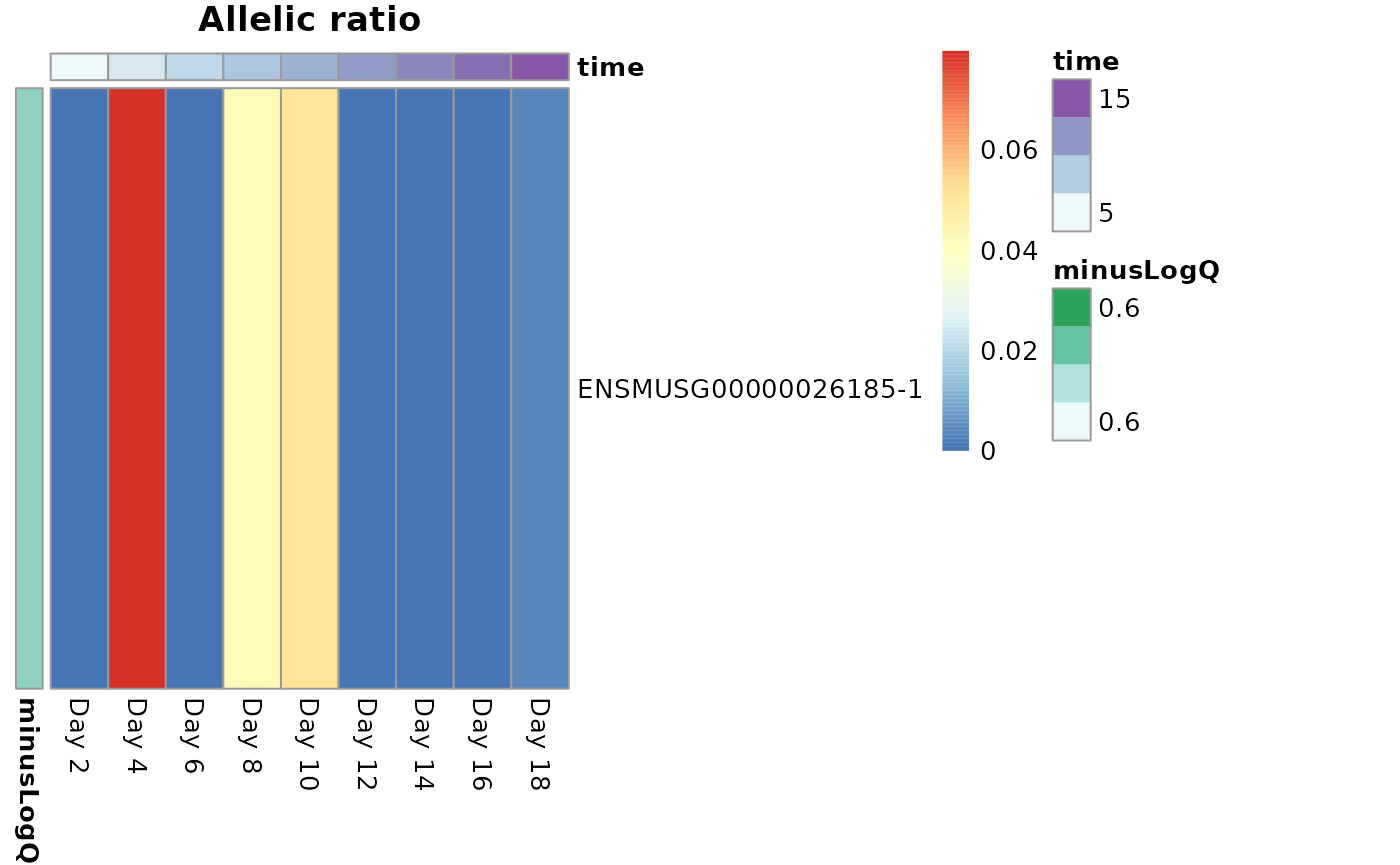
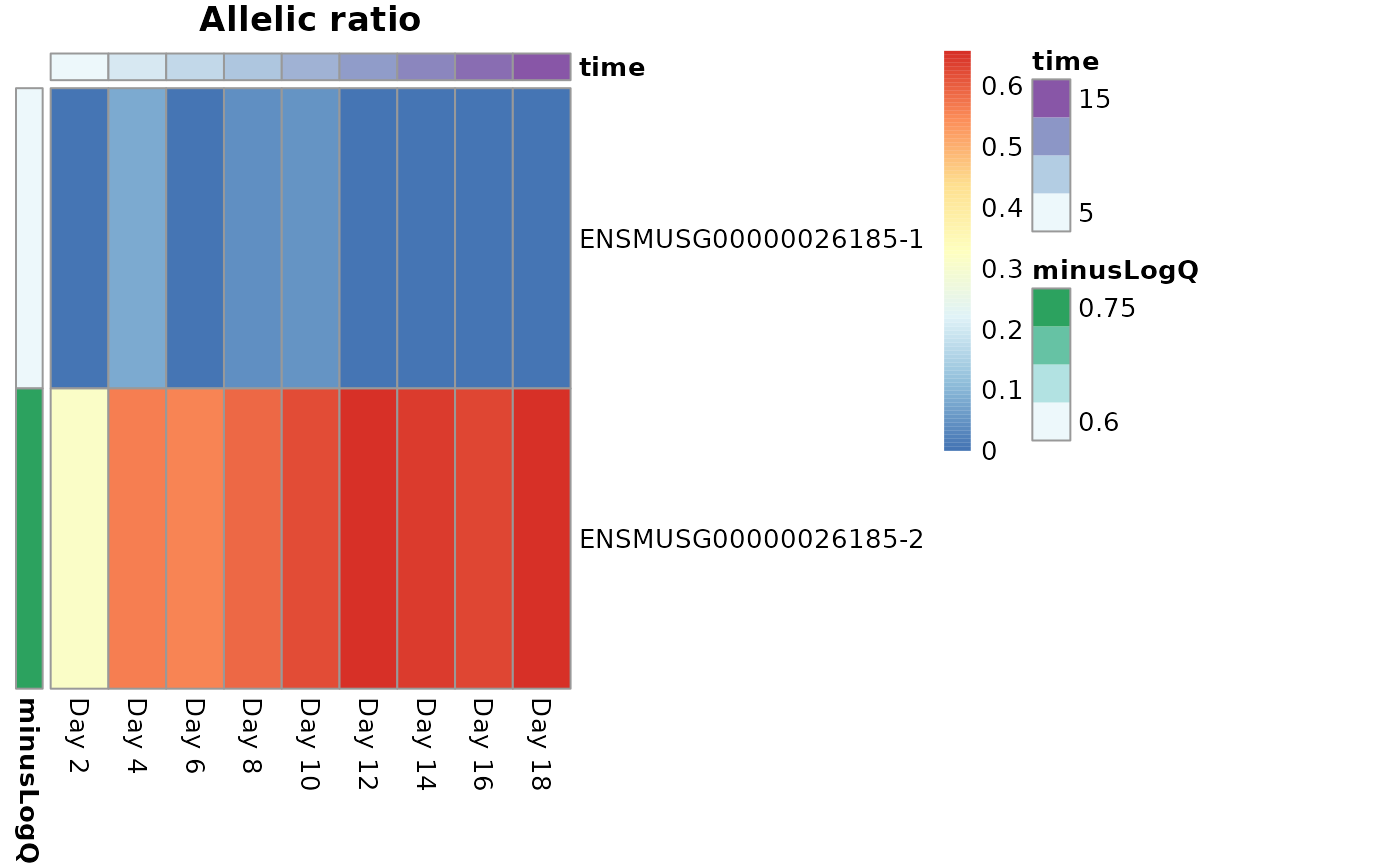
Deploying to gh-pages from @ mikelove/Bioc2022AllelicExpression@a104dd07f5296b4f419c2e4f2dabdc4f16bfcf2c 🚀

diff --git a/articles/Bioc2022AllelicExpression.html b/articles/Bioc2022AllelicExpression.html
@@ -106,7 +106,7 @@ which provides quantification at isoform and allele level; SEESAW also
 use the same upstream pipeline as EMASE for construction of diploid
 reference transcripts.</p>
 <p>Our approach differs from existing methods for detecting allelic
-imbalance in RNA-seq data such as <a href="https://github.com/bmvdgeijn/WASP" class="external-link">WASP</a> or the Bioconductor
+imbalance (AI) in RNA-seq data such as <a href="https://github.com/bmvdgeijn/WASP" class="external-link">WASP</a> or the Bioconductor
 package <a href="https://www.bioconductor.org/packages/AllelicImbalance" class="external-link">AllelicImbalance</a>,
 in that we do not focus on pileup of reads on particular SNPs, but
 instead integrate the isoform- and allele-level information contained in
@@ -120,10 +120,11 @@ Bioconductor package <a href="https://www.bioconductor.org/packages/PAIRADISE" c
 which quantifies reads that contain both allelic and isoform-level
 information: those that contain both a heterozygous SNP and a splice
 juntion. Another relevant recently developed method is <a href="https://github.com/Jiaxin-Fan/ASEP" class="external-link">ASEP</a>, which allows for
-gene-level allelic imbalance detection, accounting for unknown genotype
-of other nearby regulatory variants. PAIRADISE and ASEP are therefore
-applicable across populations of genotypically diverse individuals. We
-link to these publications for background reading below.</p>
+gene-level allelic imbalance (AI) detection, accounting for unknown
+genotype of other nearby regulatory variants. PAIRADISE and ASEP are
+therefore applicable across populations of genotypically diverse
+individuals. We link to these publications for background reading
+below.</p>
 </div>
 <div class="section level3">
 <h3 id="pre-requisites">Pre-requisites<a class="anchor" aria-label="anchor" href="#pre-requisites"></a>
@@ -215,7 +216,7 @@ a population by RNA sequencing</a></li>
 learning about <em>cis</em> genetic regulation</li>
 <li>understand differences between approaches to allelic
 quantification</li>
-<li>understand difference among types of allelic imbalance tests,
+<li>understand difference among types of allelic imbalance (AI) tests,
 e.g. “global”, “differential”, and “dynamic” imbalance</li>
 </ul>
 </div>
@@ -288,7 +289,7 @@ papers.)</p>
 <p>We might expect that these stochastic differences between the two
 alleles would average out if we look at many cells, as in bulk RNA-seq.
 But in some cases, we may see systematic differences between the two
-alleles. Some reasons why:</p>
+alleles, which we call allelic imbalance (AI). Some reasons why:</p>
 <ol style="list-style-type: decimal">
 <li>Interesting biological differences</li>
 <li>Technical artifacts</li>
@@ -622,21 +623,19 @@ non-informative for allelic imbalance analysis.</p>
 <span><span class="va">gcast</span> <span class="op">&lt;-</span> <span class="va">gcast</span><span class="op">[</span> <span class="va">someInfo</span>, <span class="op">]</span></span></code></pre></div>
 </div>
 <div class="section level2">
-<h2 id="allelic-imbalance-by-tss-group">Allelic imbalance by TSS Group<a class="anchor" aria-label="anchor" href="#allelic-imbalance-by-tss-group"></a>
+<h2 id="testing-for-allelic-imbalance">Testing for allelic imbalance<a class="anchor" aria-label="anchor" href="#testing-for-allelic-imbalance"></a>
 </h2>
-<div class="section level3">
-<h3 id="running-swish-at-tss-level">Running Swish at TSS level<a class="anchor" aria-label="anchor" href="#running-swish-at-tss-level"></a>
-</h3>
 <p>Here we switch to using TSS-level data. We have grouped transcripts
 together by TSS using +/- 50bp tolerance (so forming fewer groups by
 allowing +/- 50bp between TSS to join them into a group).</p>
-<p>We first filter out non-informative features as shown in the previous
-step:</p>
 <div class="sourceCode" id="cb15"><pre class="downlit sourceCode r">
 <code class="sourceCode R"><span><span class="fu"><a href="https://rdrr.io/r/utils/data.html" class="external-link">data</a></span><span class="op">(</span><span class="va">osteoblast_tss_chr1</span><span class="op">)</span></span>
 <span><span class="va">tss</span> <span class="op">&lt;-</span> <span class="va">osteoblast_tss_chr1</span></span>
-<span><span class="va">tcast</span> <span class="op">&lt;-</span> <span class="va">tss</span><span class="op">[</span>,<span class="va">tss</span><span class="op">$</span><span class="va">cross</span> <span class="op">==</span> <span class="st">"CASTxB6"</span><span class="op">]</span></span>
-<span><span class="va">n</span> <span class="op">&lt;-</span> <span class="fu"><a href="https://rdrr.io/pkg/BiocGenerics/man/nrow.html" class="external-link">ncol</a></span><span class="op">(</span><span class="va">tcast</span><span class="op">)</span><span class="op">/</span><span class="fl">2</span></span>
+<span><span class="va">tcast</span> <span class="op">&lt;-</span> <span class="va">tss</span><span class="op">[</span>,<span class="va">tss</span><span class="op">$</span><span class="va">cross</span> <span class="op">==</span> <span class="st">"CASTxB6"</span><span class="op">]</span></span></code></pre></div>
+<p>We first filter out non-informative features as shown in the previous
+step:</p>
+<div class="sourceCode" id="cb16"><pre class="downlit sourceCode r">
+<code class="sourceCode R"><span><span class="va">n</span> <span class="op">&lt;-</span> <span class="fu"><a href="https://rdrr.io/pkg/BiocGenerics/man/nrow.html" class="external-link">ncol</a></span><span class="op">(</span><span class="va">tcast</span><span class="op">)</span><span class="op">/</span><span class="fl">2</span></span>
 <span><span class="va">rep1a1</span> <span class="op">&lt;-</span> <span class="fu"><a href="https://rdrr.io/pkg/SummarizedExperiment/man/SummarizedExperiment-class.html" class="external-link">assay</a></span><span class="op">(</span><span class="va">tcast</span>, <span class="st">"infRep1"</span><span class="op">)</span><span class="op">[</span>, <span class="va">tcast</span><span class="op">$</span><span class="va">allele</span> <span class="op">==</span> <span class="st">"a1"</span> <span class="op">]</span></span>
 <span><span class="va">rep1a2</span> <span class="op">&lt;-</span> <span class="fu"><a href="https://rdrr.io/pkg/SummarizedExperiment/man/SummarizedExperiment-class.html" class="external-link">assay</a></span><span class="op">(</span><span class="va">tcast</span>, <span class="st">"infRep1"</span><span class="op">)</span><span class="op">[</span>, <span class="va">tcast</span><span class="op">$</span><span class="va">allele</span> <span class="op">==</span> <span class="st">"a2"</span> <span class="op">]</span></span>
 <span><span class="va">someInfo</span> <span class="op">&lt;-</span> <span class="fu"><a href="https://rdrr.io/pkg/BiocGenerics/man/colSums.html" class="external-link">rowSums</a></span><span class="op">(</span><span class="fu"><a href="https://rdrr.io/r/base/MathFun.html" class="external-link">abs</a></span><span class="op">(</span><span class="va">rep1a1</span> <span class="op">-</span> <span class="va">rep1a2</span><span class="op">)</span> <span class="op">&lt;</span> <span class="fl">1</span><span class="op">)</span> <span class="op">&lt;</span> <span class="va">n</span></span>
@@ -657,18 +656,18 @@ minimal count of 10 in at least 3 samples.</p>
 samples. <em>Dynamic AI</em> tests for non-zero correlation between the
 log allelic fold change and a continuous variable (in this case, the
 <code>day</code>).</p>
-<div class="sourceCode" id="cb16"><pre class="downlit sourceCode r">
+<div class="sourceCode" id="cb17"><pre class="downlit sourceCode r">
 <code class="sourceCode R"><span><span class="va">tcast</span> <span class="op">&lt;-</span> <span class="fu"><a href="https://rdrr.io/pkg/fishpond/man/labelKeep.html" class="external-link">labelKeep</a></span><span class="op">(</span><span class="va">tcast</span><span class="op">)</span></span>
 <span><span class="va">tcast</span> <span class="op">&lt;-</span> <span class="va">tcast</span><span class="op">[</span><span class="fu">mcols</span><span class="op">(</span><span class="va">tcast</span><span class="op">)</span><span class="op">$</span><span class="va">keep</span>,<span class="op">]</span></span>
 <span><span class="co"># for plots later</span></span>
 <span><span class="va">tcast</span> <span class="op">&lt;-</span> <span class="fu"><a href="https://rdrr.io/pkg/fishpond/man/computeInfRV.html" class="external-link">computeInfRV</a></span><span class="op">(</span><span class="va">tcast</span><span class="op">)</span></span></code></pre></div>
 <p>The tests involve permutation, and so it takes about 20 seconds in
 this case.</p>
-<div class="sourceCode" id="cb17"><pre class="downlit sourceCode r">
+<div class="sourceCode" id="cb18"><pre class="downlit sourceCode r">
 <code class="sourceCode R"><span><span class="fu"><a href="https://rdrr.io/r/base/Random.html" class="external-link">set.seed</a></span><span class="op">(</span><span class="fl">1</span><span class="op">)</span></span>
 <span><span class="va">global</span> <span class="op">&lt;-</span> <span class="fu"><a href="https://rdrr.io/pkg/fishpond/man/swish.html" class="external-link">swish</a></span><span class="op">(</span><span class="va">tcast</span>, x<span class="op">=</span><span class="st">"allele"</span>, pair<span class="op">=</span><span class="st">"day"</span><span class="op">)</span></span></code></pre></div>
 <p>The dynamic test here takes about 40 seconds.</p>
-<div class="sourceCode" id="cb18"><pre class="downlit sourceCode r">
+<div class="sourceCode" id="cb19"><pre class="downlit sourceCode r">
 <code class="sourceCode R"><span><span class="fu"><a href="https://rdrr.io/r/base/Random.html" class="external-link">set.seed</a></span><span class="op">(</span><span class="fl">1</span><span class="op">)</span></span>
 <span><span class="va">dy</span> <span class="op">&lt;-</span> <span class="fu"><a href="https://rdrr.io/pkg/fishpond/man/swish.html" class="external-link">swish</a></span><span class="op">(</span><span class="va">tcast</span>, x<span class="op">=</span><span class="st">"allele"</span>, pair<span class="op">=</span><span class="st">"day"</span>,</span>
 <span>            cov<span class="op">=</span><span class="st">"day"</span>, cor<span class="op">=</span><span class="st">"pearson"</span><span class="op">)</span></span></code></pre></div>
@@ -677,7 +676,7 @@ analysis?</strong></p>
 <p>The results are stored in <code>mcols()</code> in each case. We can
 examine how many TSS groups are detected as having global or dynamic AI
 in a 5% FDR set:</p>
-<div class="sourceCode" id="cb19"><pre class="downlit sourceCode r">
+<div class="sourceCode" id="cb20"><pre class="downlit sourceCode r">
 <code class="sourceCode R"><span><span class="fu"><a href="https://rdrr.io/pkg/BiocGenerics/man/table.html" class="external-link">table</a></span><span class="op">(</span><span class="fu">mcols</span><span class="op">(</span><span class="va">global</span><span class="op">)</span><span class="op">$</span><span class="va">qvalue</span> <span class="op">&lt;</span> <span class="fl">0.05</span><span class="op">)</span></span>
 <span><span class="co">#&gt; </span></span>
 <span><span class="co">#&gt; FALSE  TRUE </span></span>
@@ -688,33 +687,34 @@ in a 5% FDR set:</p>
 <span><span class="co">#&gt;  2016    17</span></span></code></pre></div>
 <p><strong>Q: why are there fewer dynamic positive results?</strong></p>
 </div>
-<div class="section level3">
-<h3 id="plotting-results">Plotting Results<a class="anchor" aria-label="anchor" href="#plotting-results"></a>
-</h3>
+<div class="section level2">
+<h2 id="plotting-test-results">Plotting test results<a class="anchor" aria-label="anchor" href="#plotting-test-results"></a>
+</h2>
 <p>We can visualize the relationship between allelic log fold change
 versus mean expression through MA plots. Blue points are TSS groups in
 the 5% FDR set. One can specify the threshold by using
 <code>alpha = ...</code> option.</p>
-<div class="sourceCode" id="cb20"><pre class="downlit sourceCode r">
+<div class="sourceCode" id="cb21"><pre class="downlit sourceCode r">
 <code class="sourceCode R"><span><span class="fu"><a href="https://rdrr.io/pkg/fishpond/man/plotMASwish.html" class="external-link">plotMASwish</a></span><span class="op">(</span><span class="va">global</span>, alpha<span class="op">=</span><span class="fl">.05</span>, main<span class="op">=</span><span class="st">"Global MA Plot"</span><span class="op">)</span></span></code></pre></div>
 <p><img src="Bioc2022AllelicExpression_files/figure-html/maGlobal-1.png" width="700"></p>
 <p>The average LFC over all samples is plotted also for the dynamic
 test, although the correlation is the test statistic used for computing
 p-values and q-values. Hence the most extreme LFC are not in the 5% FDR
 set.</p>
-<div class="sourceCode" id="cb21"><pre class="downlit sourceCode r">
+<div class="sourceCode" id="cb22"><pre class="downlit sourceCode r">
 <code class="sourceCode R"><span><span class="fu"><a href="https://rdrr.io/pkg/fishpond/man/plotMASwish.html" class="external-link">plotMASwish</a></span><span class="op">(</span><span class="va">dy</span>, alpha<span class="op">=</span><span class="fl">.05</span>, main<span class="op">=</span><span class="st">"Dynamic MA Plot"</span><span class="op">)</span></span></code></pre></div>
 <p><img src="Bioc2022AllelicExpression_files/figure-html/maDynamic-1.png" width="700"></p>
-<div class="section level4">
-<h4 id="global-ai-visualization">Global AI visualization<a class="anchor" aria-label="anchor" href="#global-ai-visualization"></a>
-</h4>
+</div>
+<div class="section level2">
+<h2 id="global-ai-visualization">Global AI visualization<a class="anchor" aria-label="anchor" href="#global-ai-visualization"></a>
+</h2>
 <p>We now want to visualize the TSS group analysis in a genomic context.
 To do so, first we must download the mouse Ensembl annotations. We do so
 using <em>AnnotationHub</em>:</p>
-<div class="sourceCode" id="cb22"><pre class="downlit sourceCode r">
+<div class="sourceCode" id="cb23"><pre class="downlit sourceCode r">
 <code class="sourceCode R"><span><span class="kw"><a href="https://rdrr.io/r/base/library.html" class="external-link">library</a></span><span class="op">(</span><span class="va">AnnotationHub</span><span class="op">)</span></span>
 <span><span class="kw"><a href="https://rdrr.io/r/base/library.html" class="external-link">library</a></span><span class="op">(</span><span class="va"><a href="https://github.com/jorainer/ensembldb" class="external-link">ensembldb</a></span><span class="op">)</span></span></code></pre></div>
-<div class="sourceCode" id="cb23"><pre class="downlit sourceCode r">
+<div class="sourceCode" id="cb24"><pre class="downlit sourceCode r">
 <code class="sourceCode R"><span><span class="va">ah</span> <span class="op">&lt;-</span> <span class="fu"><a href="https://rdrr.io/pkg/AnnotationHub/man/AnnotationHub-class.html" class="external-link">AnnotationHub</a></span><span class="op">(</span><span class="op">)</span></span>
 <span><span class="co">#&gt; snapshotDate(): 2022-07-11</span></span>
 <span><span class="va">edb</span> <span class="op">&lt;-</span> <span class="va">ah</span><span class="op">[[</span><span class="st">"AH89211"</span><span class="op">]</span><span class="op">]</span></span>
@@ -726,7 +726,7 @@ context of the gene model. One can also indicate which gene to plot
 using gene symbol, e.g. <code>symbol="Soat1"</code>. Either
 <em>TxDb</em> or <em>EnsDb</em> can be use to include the gene model at
 the top of the plot.</p>
-<div class="sourceCode" id="cb24"><pre class="downlit sourceCode r">
+<div class="sourceCode" id="cb25"><pre class="downlit sourceCode r">
 <code class="sourceCode R"><span><span class="fu"><a href="https://rdrr.io/pkg/fishpond/man/plotAllelicGene.html" class="external-link">plotAllelicGene</a></span><span class="op">(</span><span class="va">global</span>, gene<span class="op">=</span><span class="st">"ENSMUSG00000026600"</span>,</span>
 <span>                db<span class="op">=</span><span class="va">edb</span>, labels<span class="op">=</span><span class="fu"><a href="https://rdrr.io/r/base/list.html" class="external-link">list</a></span><span class="op">(</span>a2<span class="op">=</span><span class="st">"B6"</span>,a1<span class="op">=</span><span class="st">"CAST"</span><span class="op">)</span><span class="op">)</span></span></code></pre></div>
 <p><img src="Bioc2022AllelicExpression_files/figure-html/globalGene-1.png" width="700"></p>
@@ -736,7 +736,7 @@ the top of the plot.</p>
 in majority of the samples. One can customize the label of alleles in
 the function with the following code, switching from <code>a2, a1</code>
 to <code>B6, CAST</code>.</p>
-<div class="sourceCode" id="cb25"><pre class="downlit sourceCode r">
+<div class="sourceCode" id="cb26"><pre class="downlit sourceCode r">
 <code class="sourceCode R"><span><span class="va">tcast</span><span class="op">$</span><span class="va">allele_new</span> <span class="op">&lt;-</span> <span class="va">tcast</span><span class="op">$</span><span class="va">allele</span></span>
 <span><span class="fu"><a href="https://rdrr.io/r/base/levels.html" class="external-link">levels</a></span><span class="op">(</span><span class="va">tcast</span><span class="op">$</span><span class="va">allele_new</span><span class="op">)</span> <span class="op">&lt;-</span> <span class="fu"><a href="https://rdrr.io/r/base/c.html" class="external-link">c</a></span><span class="op">(</span><span class="st">"B6"</span>, <span class="st">"CAST"</span><span class="op">)</span></span>
 <span><span class="va">idx</span> <span class="op">&lt;-</span> <span class="fu"><a href="https://rdrr.io/pkg/BiocGenerics/man/match.html" class="external-link">match</a></span><span class="op">(</span><span class="st">"ENSMUSG00000026600"</span>, <span class="fu">mcols</span><span class="op">(</span><span class="va">tcast</span><span class="op">)</span><span class="op">$</span><span class="va">gene_id</span><span class="op">)</span></span>
@@ -751,7 +751,7 @@ more significant <em>qvalue</em> in differential testing (for allelic
 imbalance). A color toward red indicates more of the <code>a1</code>
 allele (CAST) while a color toward blue indicates more of
 <code>a2</code> (B6).</p>
-<div class="sourceCode" id="cb26"><pre class="downlit sourceCode r">
+<div class="sourceCode" id="cb27"><pre class="downlit sourceCode r">
 <code class="sourceCode R"><span><span class="va">idx</span> <span class="op">&lt;-</span> <span class="fu">mcols</span><span class="op">(</span><span class="va">global</span><span class="op">)</span><span class="op">$</span><span class="va">gene_id</span> <span class="op">==</span> <span class="st">"ENSMUSG00000026600"</span></span>
 <span><span class="va">dat</span> <span class="op">&lt;-</span> <span class="fu"><a href="https://rdrr.io/r/base/data.frame.html" class="external-link">data.frame</a></span><span class="op">(</span>minusLogQ<span class="op">=</span><span class="op">-</span><span class="fu"><a href="https://rdrr.io/r/base/Log.html" class="external-link">log10</a></span><span class="op">(</span><span class="fu">mcols</span><span class="op">(</span><span class="va">global</span><span class="op">)</span><span class="op">$</span><span class="va">qvalue</span><span class="op">[</span><span class="va">idx</span><span class="op">]</span><span class="op">)</span>,</span>
 <span>                  row.names<span class="op">=</span><span class="fu"><a href="https://rdrr.io/pkg/BiocGenerics/man/row_colnames.html" class="external-link">rownames</a></span><span class="op">(</span><span class="va">global</span><span class="op">)</span><span class="op">[</span><span class="va">idx</span><span class="op">]</span><span class="op">)</span></span>
@@ -761,14 +761,14 @@ allele (CAST) while a color toward blue indicates more of
 <span><span class="co">#&gt; using posterior mean for calculating ratio</span></span></code></pre></div>
 <p><img src="Bioc2022AllelicExpression_files/figure-html/globalHeatmap-1.png" width="700"></p>
 </div>
-<div class="section level4">
-<h4 id="dynamic-ai-visualization">Dynamic AI visualization<a class="anchor" aria-label="anchor" href="#dynamic-ai-visualization"></a>
-</h4>
+<div class="section level2">
+<h2 id="dynamic-ai-visualization">Dynamic AI visualization<a class="anchor" aria-label="anchor" href="#dynamic-ai-visualization"></a>
+</h2>
 <p><code><a href="https://rdrr.io/pkg/fishpond/man/plotInfReps.html" class="external-link">plotInfReps()</a></code> is a useful function for visualizing how
 allelic counts changes over a continuous covariate, such as
 <code>day</code>. Using <code>lines</code> can help us better visualize
 the trend.</p>
-<div class="sourceCode" id="cb27"><pre class="downlit sourceCode r">
+<div class="sourceCode" id="cb28"><pre class="downlit sourceCode r">
 <code class="sourceCode R"><span><span class="va">plotCurves</span> <span class="op">&lt;-</span> <span class="kw">function</span><span class="op">(</span><span class="va">dy</span>, <span class="va">idx</span><span class="op">)</span> <span class="op">{</span></span>
 <span>  <span class="va">cols</span> <span class="op">&lt;-</span> <span class="fu"><a href="https://rdrr.io/r/base/c.html" class="external-link">c</a></span><span class="op">(</span><span class="st">"dodgerblue"</span>,<span class="st">"goldenrod4"</span><span class="op">)</span></span>
 <span>  <span class="fu"><a href="https://rdrr.io/pkg/fishpond/man/plotInfReps.html" class="external-link">plotInfReps</a></span><span class="op">(</span><span class="va">dy</span>, idx<span class="op">=</span><span class="va">idx</span>, x<span class="op">=</span><span class="st">"day"</span>, cov<span class="op">=</span><span class="st">"allele"</span>, shiftX<span class="op">=</span><span class="fl">0.01</span><span class="op">)</span></span>
@@ -779,7 +779,7 @@ the trend.</p>
 <span><span class="va">idx</span> <span class="op">&lt;-</span> <span class="st">"ENSMUSG00000026185-1"</span></span>
 <span><span class="fu">plotCurves</span><span class="op">(</span><span class="va">dy</span>, <span class="va">idx</span><span class="op">)</span></span></code></pre></div>
 <p><img src="Bioc2022AllelicExpression_files/figure-html/dynamicInfReps1-1.png" width="700"></p>
-<div class="sourceCode" id="cb28"><pre class="downlit sourceCode r">
+<div class="sourceCode" id="cb29"><pre class="downlit sourceCode r">
 <code class="sourceCode R"><span><span class="va">idx</span> <span class="op">&lt;-</span> <span class="st">"ENSMUSG00000026185-2"</span></span>
 <span><span class="fu">plotCurves</span><span class="op">(</span><span class="va">dy</span>, <span class="va">idx</span><span class="op">)</span></span></code></pre></div>
 <p><img src="Bioc2022AllelicExpression_files/figure-html/dynamicInfReps2-1.png" width="700"></p>
@@ -797,7 +797,7 @@ plot).</p>
 as isoform proportion. We can see an increasing in B6 expression over
 time for the first transcript group and an increasing in CAST expression
 with time for the second transcript group.</p>
-<div class="sourceCode" id="cb29"><pre class="downlit sourceCode r">
+<div class="sourceCode" id="cb30"><pre class="downlit sourceCode r">
 <code class="sourceCode R"><span><span class="co"># this makes integer bins</span></span>
 <span><span class="va">dy</span><span class="op">$</span><span class="va">time_bins</span> <span class="op">&lt;-</span> <span class="fu"><a href="https://rdrr.io/r/base/cut.html" class="external-link">cut</a></span><span class="op">(</span><span class="va">dy</span><span class="op">$</span><span class="va">day</span>,breaks<span class="op">=</span><span class="fu"><a href="https://rdrr.io/r/base/c.html" class="external-link">c</a></span><span class="op">(</span><span class="fl">2</span>,<span class="fl">6</span>,<span class="fl">12</span>,<span class="fl">18</span><span class="op">)</span>,</span>
 <span>                    include.lowest<span class="op">=</span><span class="cn">TRUE</span>, labels<span class="op">=</span><span class="cn">FALSE</span><span class="op">)</span></span>
@@ -812,7 +812,7 @@ with time for the second transcript group.</p>
 <span>                labels<span class="op">=</span><span class="fu"><a href="https://rdrr.io/r/base/list.html" class="external-link">list</a></span><span class="op">(</span>a2<span class="op">=</span><span class="st">"B6"</span>,a1<span class="op">=</span><span class="st">"CAST"</span><span class="op">)</span><span class="op">)</span></span></code></pre></div>
 <p><img src="Bioc2022AllelicExpression_files/figure-html/dynamicGene-1.png" width="700"></p>
 <p>The same gene, but looking at <code>infReps</code>:</p>
-<div class="sourceCode" id="cb30"><pre class="downlit sourceCode r">
+<div class="sourceCode" id="cb31"><pre class="downlit sourceCode r">
 <code class="sourceCode R"><span><span class="va">idx</span> <span class="op">&lt;-</span> <span class="fu"><a href="https://rdrr.io/pkg/BiocGenerics/man/which.html" class="external-link">which</a></span><span class="op">(</span><span class="fu">mcols</span><span class="op">(</span><span class="va">dy</span><span class="op">)</span><span class="op">$</span><span class="va">gene_id</span> <span class="op">==</span> <span class="va">gene</span><span class="op">)</span></span>
 <span><span class="fu"><a href="https://rdrr.io/r/graphics/par.html" class="external-link">par</a></span><span class="op">(</span>mfrow<span class="op">=</span><span class="fu"><a href="https://rdrr.io/r/base/c.html" class="external-link">c</a></span><span class="op">(</span><span class="fl">2</span>,<span class="fl">1</span><span class="op">)</span>, mar<span class="op">=</span><span class="fu"><a href="https://rdrr.io/r/base/c.html" class="external-link">c</a></span><span class="op">(</span><span class="fl">3</span>,<span class="fl">4.5</span>,<span class="fl">1.5</span>,<span class="fl">1</span><span class="op">)</span><span class="op">)</span></span>
 <span><span class="fu">plotCurves</span><span class="op">(</span><span class="va">dy</span>, <span class="va">idx</span><span class="op">[</span><span class="fl">1</span><span class="op">]</span><span class="op">)</span></span>
@@ -823,8 +823,8 @@ allelic data across multiple transcripts and multiple
 samples?</strong></p>
 <p>We can add a time bar on the top of a heatmap to indicate time by
 defining <code>col_dat</code>.</p>
-<div class="sourceCode" id="cb31"><pre class="downlit sourceCode r">
-<code class="sourceCode R"><span><span class="va">idx</span> <span class="op">&lt;-</span> <span class="fu"><a href="https://rdrr.io/pkg/BiocGenerics/man/match.html" class="external-link">match</a></span><span class="op">(</span><span class="st">"ENSMUSG00000026185"</span>, <span class="fu">mcols</span><span class="op">(</span><span class="va">dy</span><span class="op">)</span><span class="op">$</span><span class="va">gene_id</span><span class="op">)</span></span>
+<div class="sourceCode" id="cb32"><pre class="downlit sourceCode r">
+<code class="sourceCode R"><span><span class="va">idx</span> <span class="op">&lt;-</span> <span class="fu"><a href="https://rdrr.io/pkg/BiocGenerics/man/which.html" class="external-link">which</a></span><span class="op">(</span><span class="fu">mcols</span><span class="op">(</span><span class="va">dy</span><span class="op">)</span><span class="op">$</span><span class="va">gene_id</span> <span class="op">==</span> <span class="st">"ENSMUSG00000026185"</span><span class="op">)</span></span>
 <span><span class="va">dat</span> <span class="op">&lt;-</span> <span class="fu"><a href="https://rdrr.io/r/base/data.frame.html" class="external-link">data.frame</a></span><span class="op">(</span>minusLogQ<span class="op">=</span><span class="op">-</span><span class="fu"><a href="https://rdrr.io/r/base/Log.html" class="external-link">log10</a></span><span class="op">(</span><span class="fu">mcols</span><span class="op">(</span><span class="va">dy</span><span class="op">)</span><span class="op">$</span><span class="va">pvalue</span><span class="op">[</span><span class="va">idx</span><span class="op">]</span><span class="op">)</span>,</span>
 <span>                  row.names<span class="op">=</span><span class="fu"><a href="https://rdrr.io/pkg/BiocGenerics/man/row_colnames.html" class="external-link">rownames</a></span><span class="op">(</span><span class="va">dy</span><span class="op">)</span><span class="op">[</span><span class="va">idx</span><span class="op">]</span><span class="op">)</span></span>
 <span><span class="fu"><a href="https://rdrr.io/pkg/BiocGenerics/man/row_colnames.html" class="external-link">colnames</a></span><span class="op">(</span><span class="va">dy</span><span class="op">)</span> <span class="op">&lt;-</span> <span class="fu"><a href="https://rdrr.io/r/base/c.html" class="external-link">c</a></span><span class="op">(</span><span class="fu"><a href="https://rdrr.io/r/base/paste.html" class="external-link">paste0</a></span><span class="op">(</span><span class="st">"Day "</span>,<span class="fu"><a href="https://rdrr.io/r/base/seq.html" class="external-link">seq</a></span><span class="op">(</span><span class="fl">2</span>,<span class="fl">18</span>, by<span class="op">=</span> <span class="fl">2</span><span class="op">)</span>, <span class="st">"-a2"</span><span class="op">)</span>, </span>
@@ -839,8 +839,6 @@ defining <code>col_dat</code>.</p>
 <span>                   cluster_rows<span class="op">=</span><span class="cn">FALSE</span><span class="op">)</span></span>
 <span><span class="co">#&gt; using posterior mean for calculating ratio</span></span></code></pre></div>
 <p><img src="Bioc2022AllelicExpression_files/figure-html/dynamicHeatmap-1.png" width="700"></p>
-</div>
-</div>
 </div>
   </div>
 
